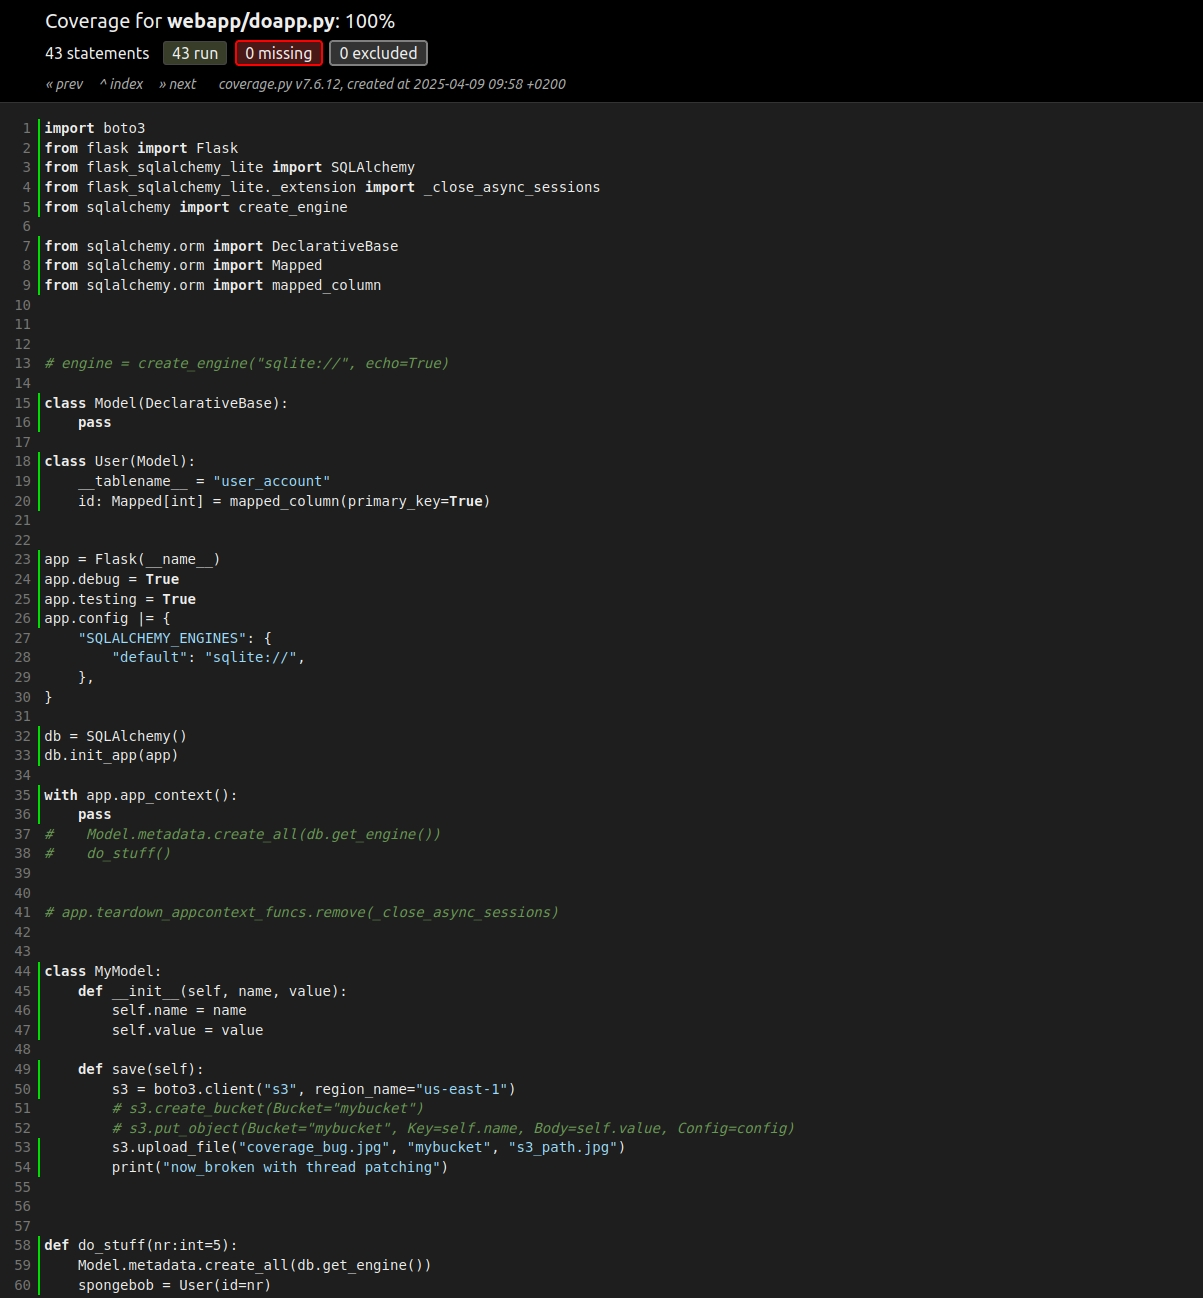
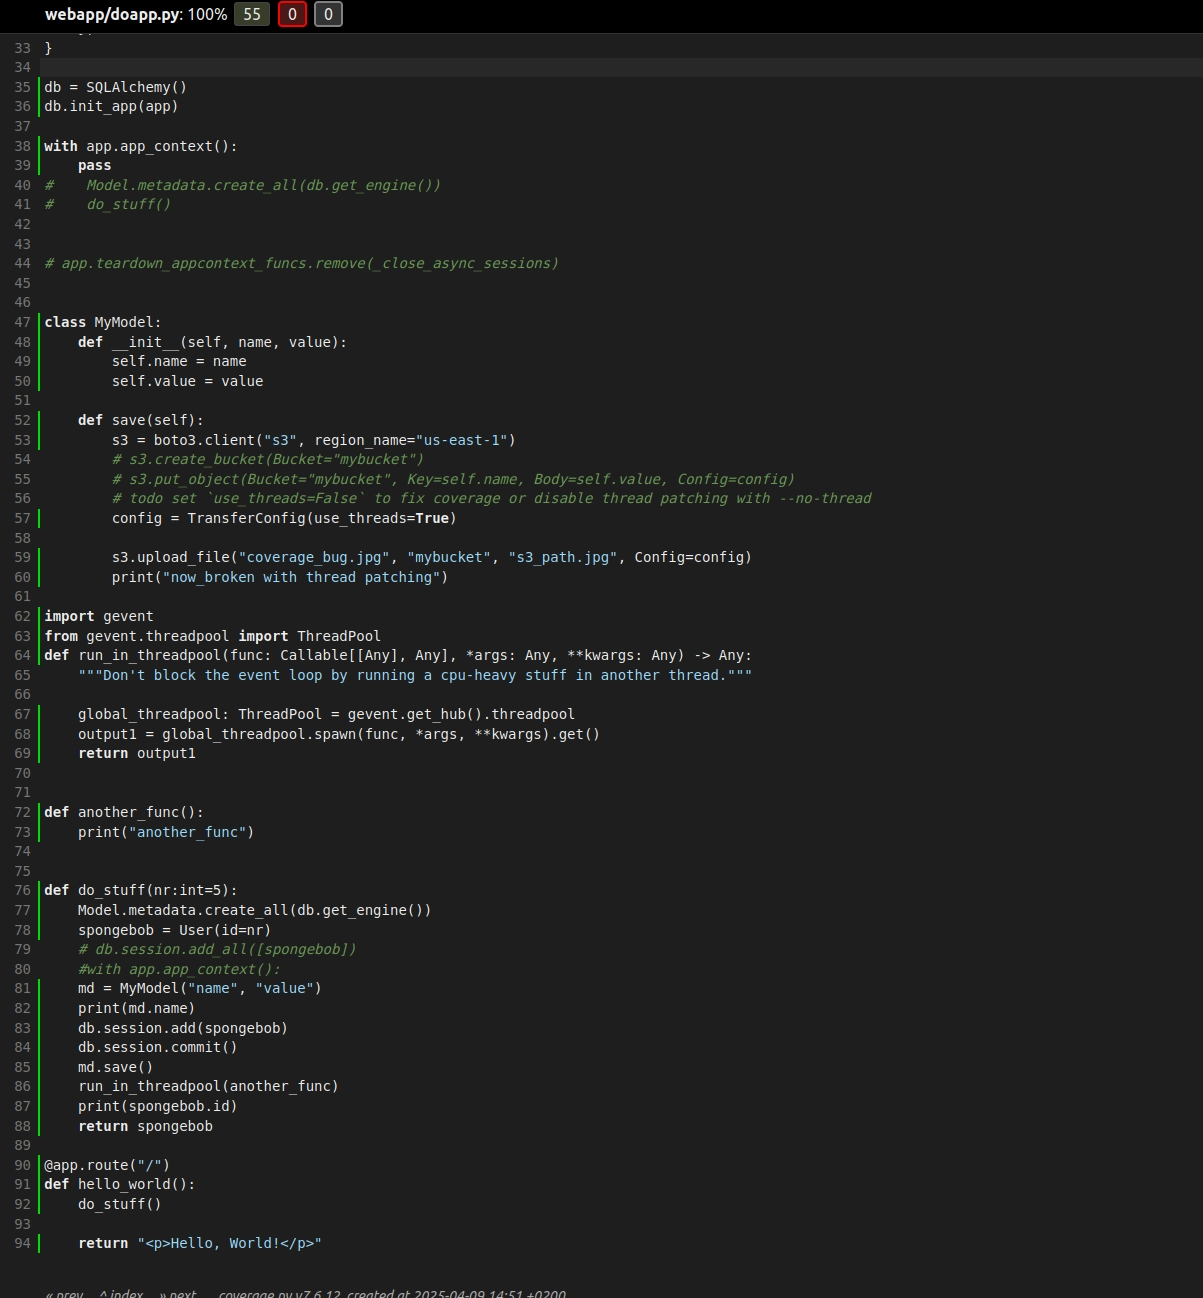
Only lingering issue when using gevent.threadpool.ThreadPool

diff --git a/webapp/doapp.py b/webapp/doapp.py
@@ -1,3 +1,7 @@
+import gevent
+from gevent.threadpool import ThreadPool
+from typing import Callable, Any
+
 from boto3.s3.transfer import TransferConfig
 import boto3
 from flask import Flask
@@ -57,6 +61,14 @@ class MyModel:
         s3.upload_file("coverage_bug.jpg", "mybucket", "s3_path.jpg", Config=config)
         print("now_broken with thread patching")
 
+def run_in_threadpool(func: Callable[[Any], Any], *args: Any, **kwargs: Any) -> Any:
+    global_threadpool: ThreadPool = gevent.get_hub().threadpool
+    output1 = global_threadpool.spawn(func, *args, **kwargs).get()
+    return output1
+
+
+def another_func():
+    print("another_func")
 
 
 def do_stuff(nr:int=5):
@@ -69,6 +81,7 @@ def do_stuff(nr:int=5):
     db.session.add(spongebob)
     db.session.commit()
     md.save()
+    run_in_threadpool(another_func)
     print(spongebob.id)
     return spongebob
 

diff --git a/readme.MD b/readme.MD
@@ -6,7 +6,7 @@ python -m gevent.monkey --module pytest tests/ --cov=webapp --cov-report html -s
 
 
 
-Works ok with `--no-thread`:
+Works ok with `--no-thread` and setting `concurrency = ["gevent", "thread", "multiprocessing"]` in `tool.coverage.run` in `pyproject.toml`:
 
 python -m gevent.monkey --no-thread --module pytest tests/ --cov=webapp --cov-report html -s
 
